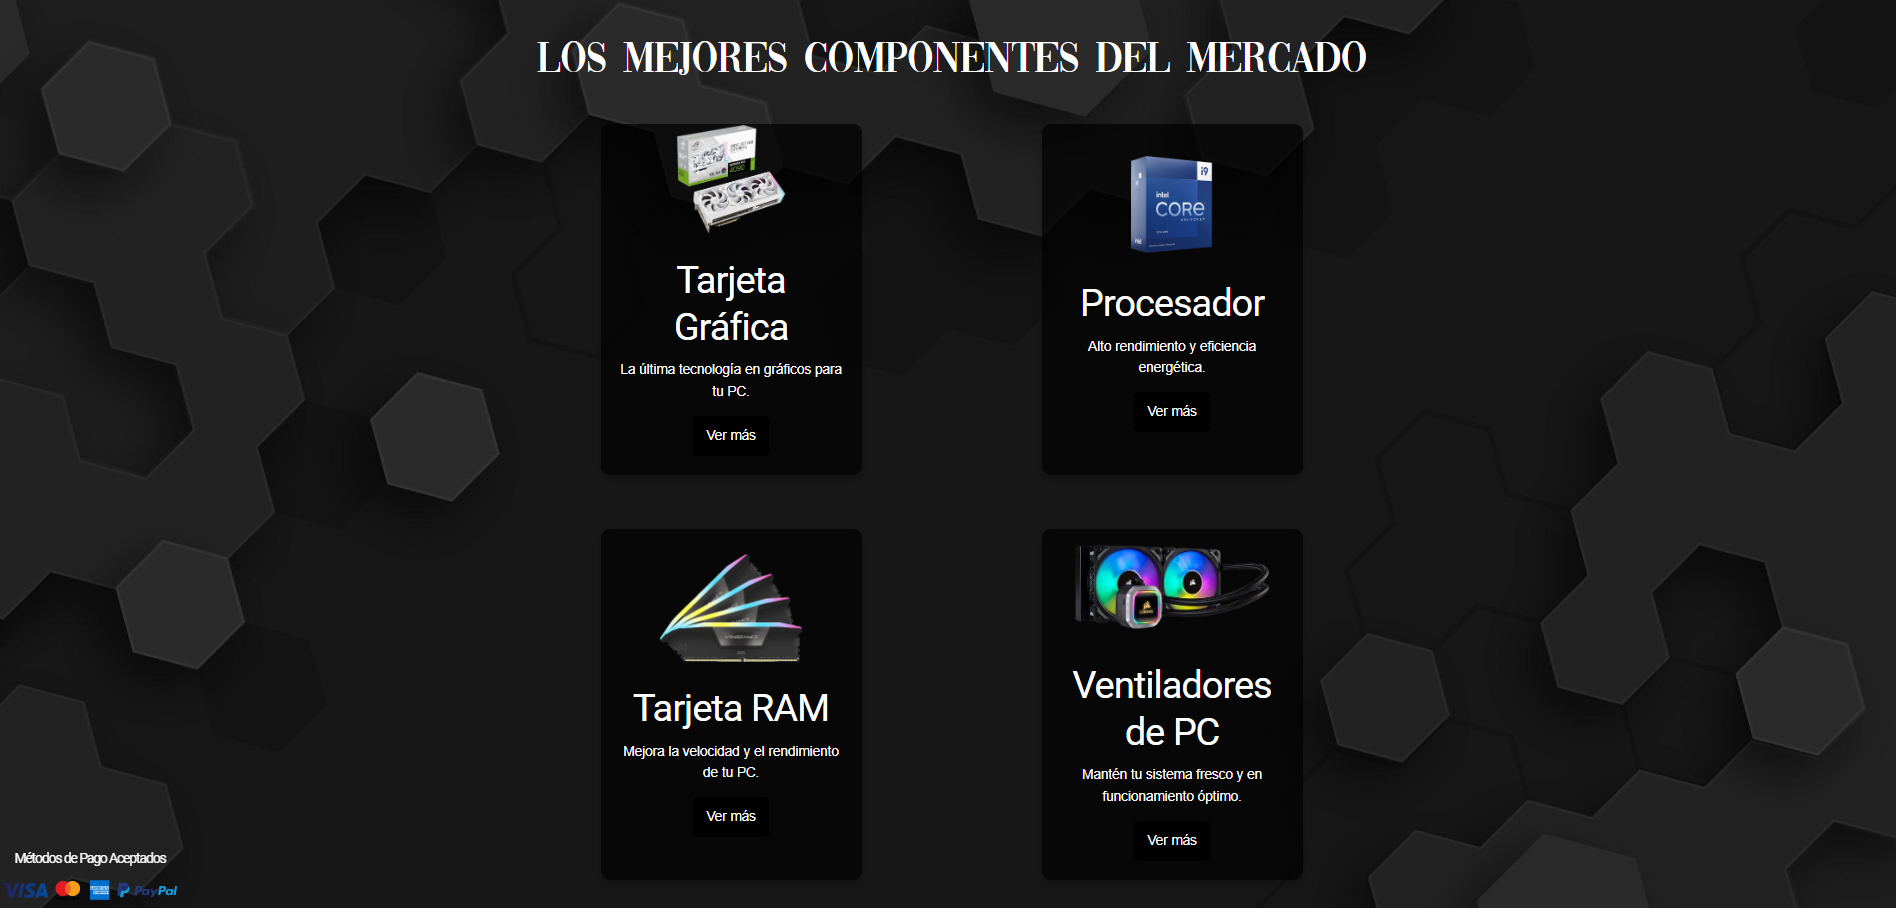
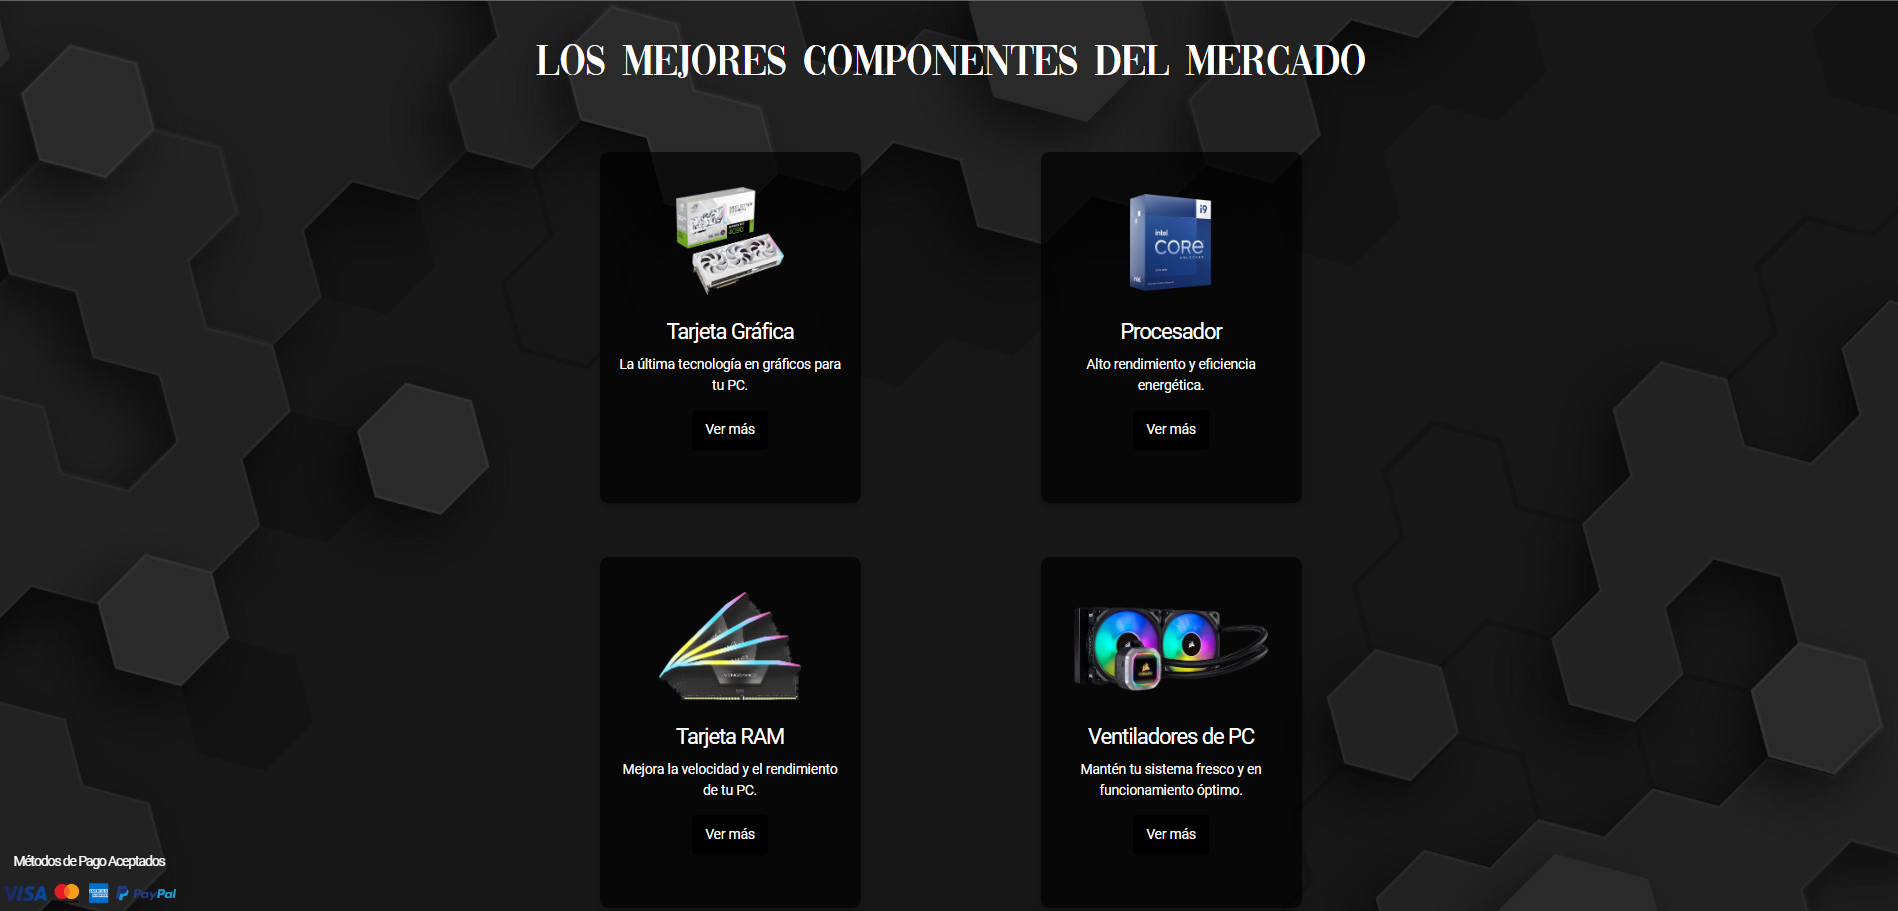
...

diff --git a/P1/public/views/index.html b/P1/public/views/index.html
@@ -3,9 +3,10 @@
 <head>
     <meta charset="UTF-8">
     <title>Tienda de Componentes de Ordenador</title>
+    <link rel="stylesheet" href="https://cdnjs.cloudflare.com/ajax/libs/skeleton/2.0.4/skeleton.min.css">
     <link rel="stylesheet" href="/css/tienda.css">
     <link href="https://fonts.googleapis.com/css?family=Roboto&display=swap" rel="stylesheet">
-    <link rel="stylesheet" href="https://cdnjs.cloudflare.com/ajax/libs/skeleton/2.0.4/skeleton.min.css">
+
 
 
 </head>

diff --git a/P1/public/css/tienda.css b/P1/public/css/tienda.css
@@ -28,6 +28,10 @@ h1 {
     font-family: 'FuenteTitulo', sans-serif;
 }
 
+h2 {
+  font-size: x-large;
+}
+
 .productos {
     display: flex;
     flex-wrap: wrap;
